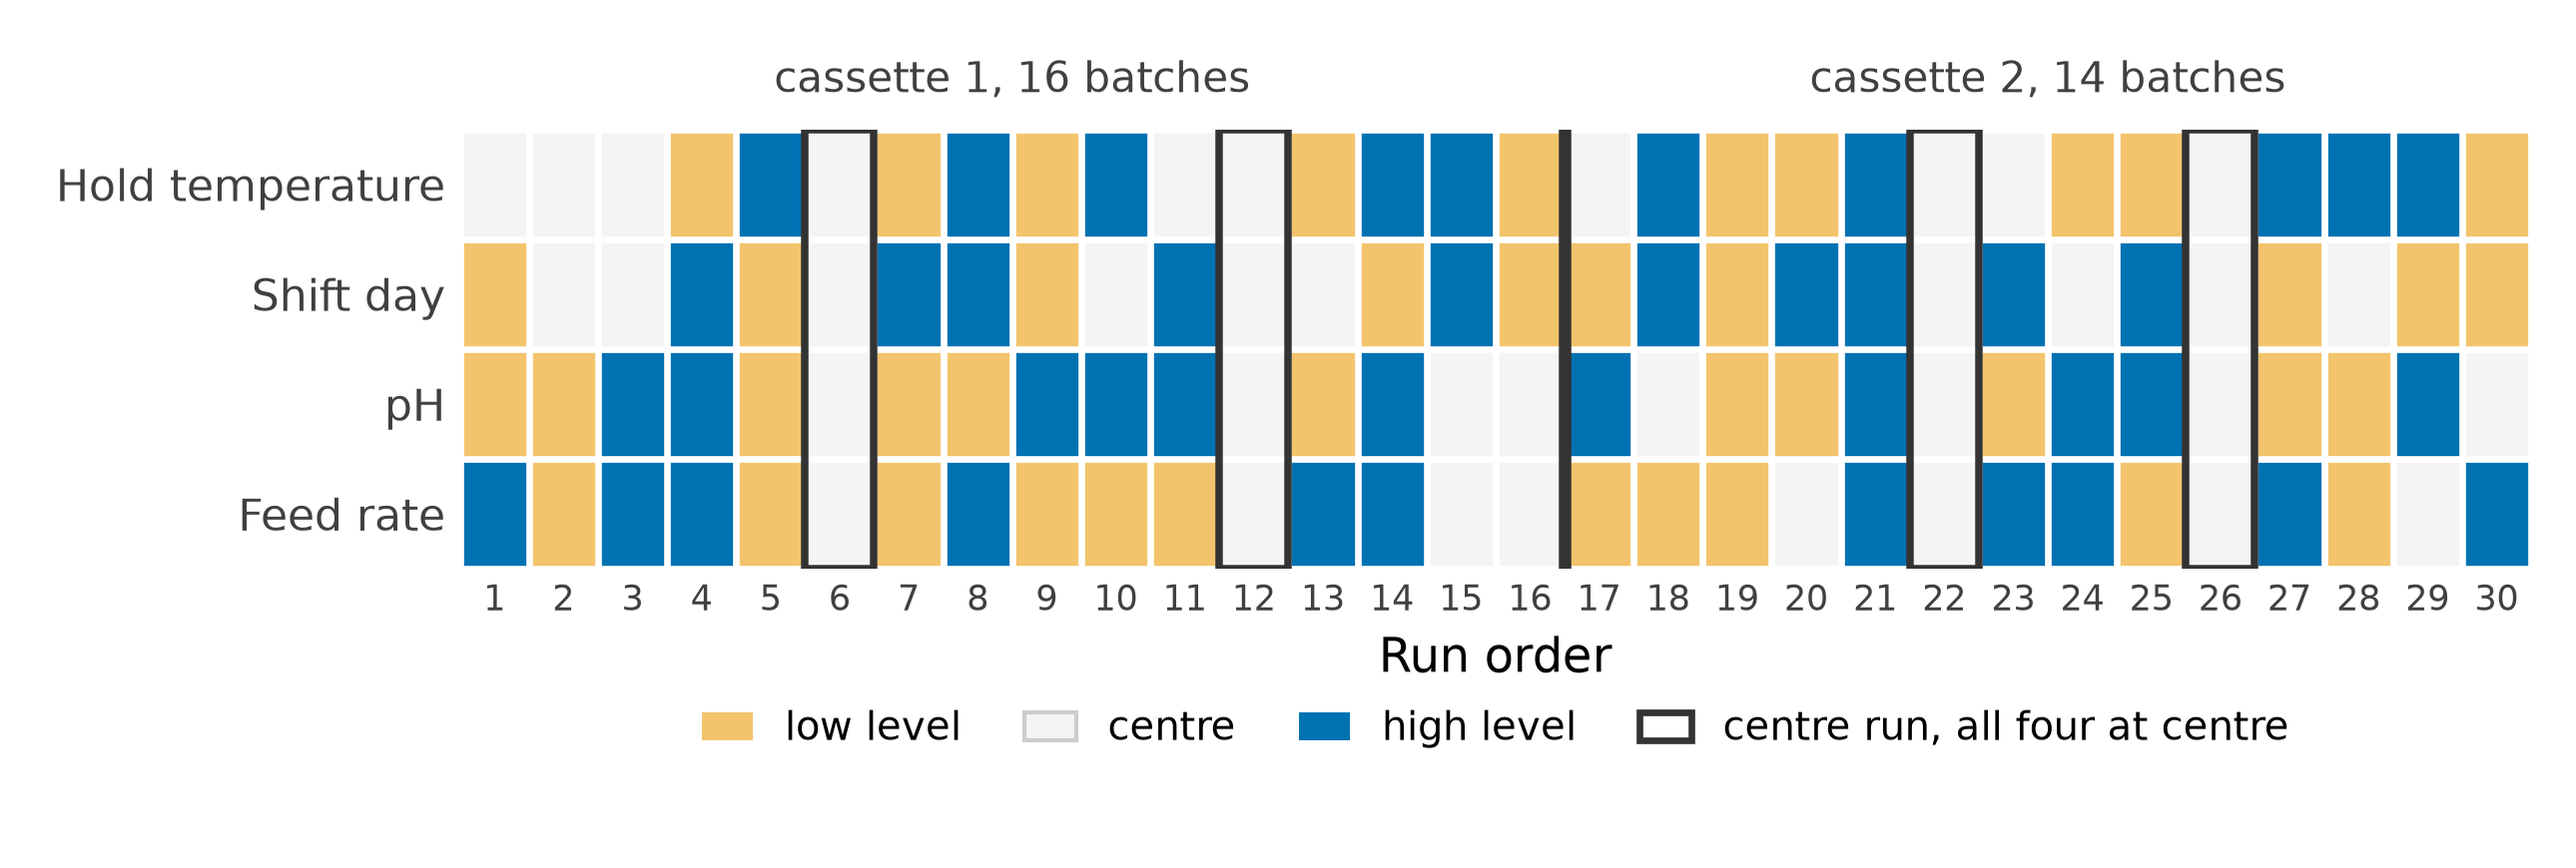
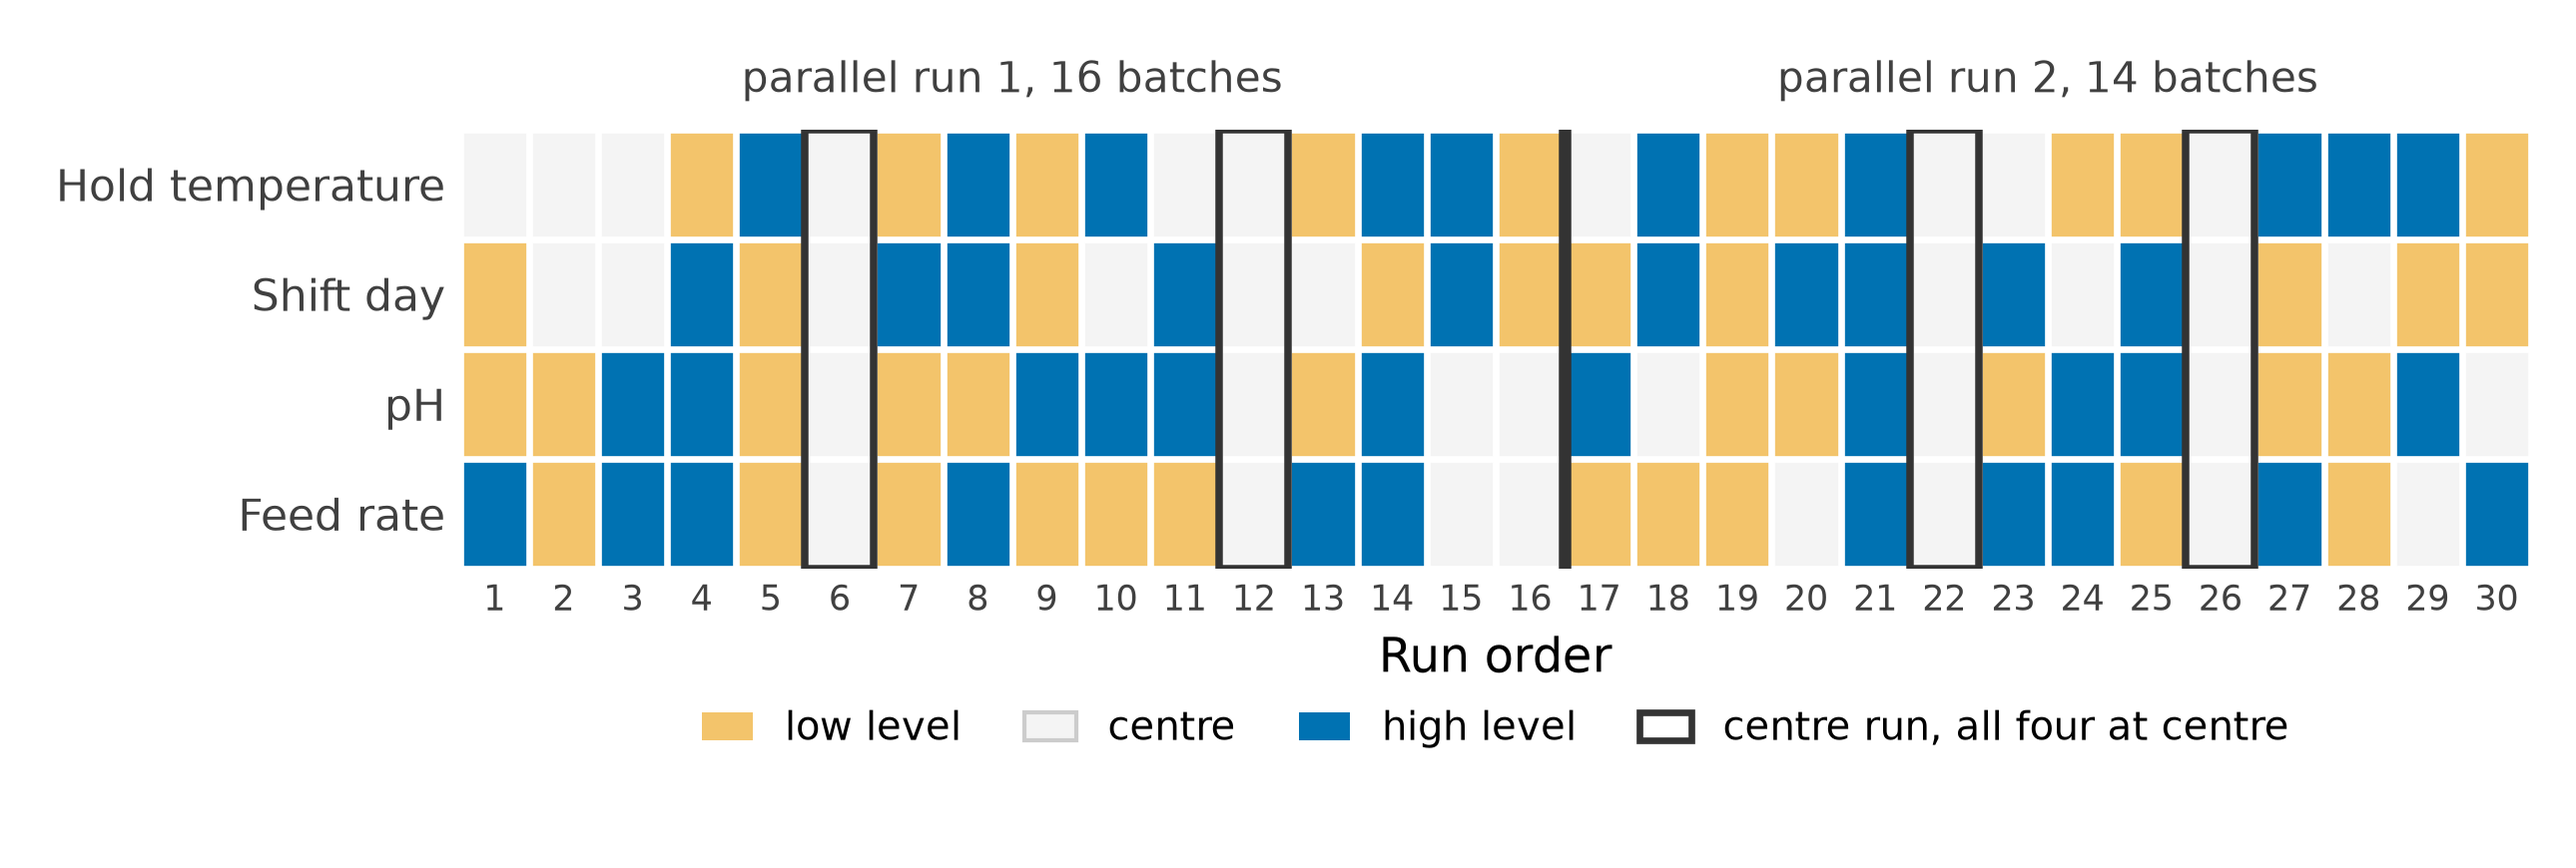
Rename cassette to parallel run in the worked-study figures
Follows the book: one set of batches run together on the Ambr system is
a parallel run, not a cassette. The plan and titer figures label it so,
the shared study module names the column parallel_run and the indicator
second_run, and the recipe figure's legend reads "low and high hold and
shift day" to match its caption.

Claude-Session: https://claude.ai/code/session_01W1daHPaXLs7PPRsq8CmMMm

Changed region(s): [[0.6822, 0.0621, 0.8992, 0.1241], [0.2791, 0.0621, 0.4961, 0.1241]]

diff --git a/doe/omars_worked_study_common.py b/doe/omars_worked_study_common.py
@@ -139,14 +139,14 @@ def study():
 
     rng = np.random.default_rng(7)
     plan = pd.DataFrame(coded, columns=NAMES)
-    plan["cassette"] = np.where(block > 0, 1, 2)
-    plan.loc[is_centre, "cassette"] = 1
+    plan["parallel_run"] = np.where(block > 0, 1, 2)
+    plan.loc[is_centre, "parallel_run"] = 1
     extra = pd.DataFrame(np.zeros((3, 4)), columns=NAMES)
-    extra["cassette"] = [1, 2, 2]
+    extra["parallel_run"] = [1, 2, 2]
     plan = pd.concat([plan, extra], ignore_index=True)
     order = []
     for c in (1, 2):
-        idx = plan.index[plan["cassette"] == c].to_numpy()
+        idx = plan.index[plan["parallel_run"] == c].to_numpy()
         centres = idx[np.all(plan.loc[idx, NAMES] == 0, axis=1)]
         seq = list(rng.permutation(idx[~np.isin(idx, centres)]))
         for k, cpt in enumerate(centres):
@@ -159,16 +159,16 @@ def study():
 
     lot = {1: CONFIG, 2: dataclasses.replace(CONFIG, feed_substrate=0.88 * CONFIG.feed_substrate)}
     seeds = np.random.default_rng(2026).integers(1 << 30, size=len(plan))
-    plan["titer"] = [run_batch(lot[int(r.cassette)], r.hold_temp, r.shift_day, r.pH, r.feed_rate, int(s))
+    plan["titer"] = [run_batch(lot[int(r.parallel_run)], r.hold_temp, r.shift_day, r.pH, r.feed_rate, int(s))
                      for r, s in zip(plan.itertuples(), seeds)]
     plan["log_titer"] = np.log(plan["titer"])
     is_cp = np.all(np.isclose(plan[NAMES], list(CURRENT.values())), axis=1)
 
     C = np.column_stack([(plan[n] - f.low) / (f.high - f.low) * 2 - 1 for n, f in zip(NAMES, FACTORS)])
-    cassette = np.where(plan["cassette"] == 2, 1.0, 0.0)
-    X = np.column_stack([np.ones(len(plan)), cassette, C])
+    second_run = np.where(plan["parallel_run"] == 2, 1.0, 0.0)
+    X = np.column_stack([np.ones(len(plan)), second_run, C])
     b = np.linalg.lstsq(X, plan["log_titer"], rcond=None)[0]
-    plan["log_titer_adj"] = plan["log_titer"] - b[1] * cassette
+    plan["log_titer_adj"] = plan["log_titer"] - b[1] * second_run
 
     result = analyze_omars(plan[NAMES], plan["log_titer_adj"],
                            quadratic_heredity="none", interaction_heredity="none")
@@ -197,7 +197,7 @@ def study():
     _check("replicate mean", reps.mean(), 7.477)
     _check("titer min", plan["titer"].min(), 4.018)
     _check("titer max", plan["titer"].max(), 8.882)
-    _check("cassette effect", b[1], -0.1557)
+    _check("parallel-run effect", b[1], -0.1557)
     _check("recommended hold", decode(x_rec)["hold_temp"], 30.44)
     _check("current titer", truth(np.zeros(4)), 7.436)
     _check("recommended titer", truth(x_rec), 8.303)
@@ -207,7 +207,7 @@ def study():
     assert result.active_quadratics == ["hold_temp^2"]
     assert result.active_interactions == ["hold_temp:shift_day", "hold_temp:pH", "hold_temp:feed_rate"]
 
-    return {"reps": reps, "plan": plan, "is_cp": is_cp, "C": C, "cassette": cassette, "b": b,
+    return {"reps": reps, "plan": plan, "is_cp": is_cp, "C": C, "second_run": second_run, "b": b,
             "result": result, "terms": terms, "bs": bs, "x_rec": x_rec, "best": best,
             "pairs": pairs, "coded": coded}
 

diff --git a/doe/omars-worked-study-plan.py b/doe/omars-worked-study-plan.py
@@ -1,10 +1,10 @@
 """The thirty-batch campaign plan of the worked OMARS study, in run order.
 
 One column per batch, one row per factor, each cell the level the factor is set to. The
-divider is the change of cassette, and with it the change of feed-medium lot. The outlined
-columns are the centre runs, two in each cassette and spread through its order rather than
-run together. Mirror pairs stay in the same cassette, which is what keeps the main effects
-orthogonal to the cassette; it is not visible in this view, and the chapter's code confirms it.
+divider is the change of parallel run, and with it the change of feed-medium lot. The outlined
+columns are the centre runs, two in each parallel run and spread through its order rather than
+run together. Mirror pairs stay in the same parallel run, which is what keeps the main effects
+orthogonal to the parallel run; it is not visible in this view, and the chapter's code confirms it.
 
 Every number comes from omars_worked_study_common.py, which reproduces the chapter's study and
 checks it against the values the chapter prints.
@@ -21,7 +21,7 @@ from omars_worked_study_common import BLUE, LABELS, NAMES, SPINE, study
 S = study()
 plan, C, is_cp = S["plan"], S["C"], S["is_cp"]
 runs = plan.index.to_numpy()
-n_first = int((plan["cassette"] == 1).sum())
+n_first = int((plan["parallel_run"] == 1).sum())
 
 LOW, MID, HIGH = "#F3C46B", "#F4F4F4", BLUE
 cmap = ListedColormap([LOW, MID, HIGH])
@@ -31,7 +31,7 @@ fig, ax = plt.subplots(figsize=(8.6, 2.9))
 ax.imshow(np.rint(C).T, cmap=cmap, vmin=-1, vmax=1, aspect="auto",
           extent=(0.5, len(runs) + 0.5, len(NAMES) - 0.5, -0.5), interpolation="nearest")
 
-# White grid between cells, then the centre runs outlined and the cassette divider.
+# White grid between cells, then the centre runs outlined and the parallel run divider.
 for x in np.arange(0.5, len(runs) + 1, 1):
     ax.axvline(x, color="white", lw=1.6)
 for y in np.arange(-0.5, len(NAMES), 1):
@@ -39,9 +39,9 @@ for y in np.arange(-0.5, len(NAMES), 1):
 for r in runs[is_cp]:
     ax.add_patch(Rectangle((r - 0.5, -0.5), 1, len(NAMES), fill=False, edgecolor="0.2", lw=1.8, zorder=4))
 ax.axvline(n_first + 0.5, color="0.2", lw=3.0, zorder=5)
-ax.text(n_first / 2 + 0.5, -0.75, f"cassette 1, {n_first} batches", ha="center", va="bottom",
+ax.text(n_first / 2 + 0.5, -0.75, f"parallel run 1, {n_first} batches", ha="center", va="bottom",
         fontsize=10, color="0.25")
-ax.text(n_first + (len(runs) - n_first) / 2 + 0.5, -0.75, f"cassette 2, {len(runs) - n_first} batches",
+ax.text(n_first + (len(runs) - n_first) / 2 + 0.5, -0.75, f"parallel run 2, {len(runs) - n_first} batches",
         ha="center", va="bottom", fontsize=10, color="0.25")
 
 ax.set_xticks(runs)

diff --git a/doe/omars-worked-study-titer.py b/doe/omars-worked-study-titer.py
@@ -1,9 +1,9 @@
-"""Titer of the thirty batches against the feed rate, by cassette, for the worked OMARS study.
+"""Titer of the thirty batches against the feed rate, by parallel run, for the worked OMARS study.
 
 The feed rate is the largest effect the study finds, so it is the axis the harvest titers are
-read against, one panel per cassette. The short bars are the mean titer of the design runs at
+read against, one panel per parallel run. The short bars are the mean titer of the design runs at
 each feed level; the stars are the centre runs, the only batches at identical settings in both
-cassettes. The second cassette drew on a new lot of feed medium, and the whole pattern sits
+parallel runs. The second parallel run drew on a new lot of feed medium, and the whole pattern sits
 lower there. The chapter estimates that shift from all thirty batches.
 
 Every number comes from omars_worked_study_common.py, which reproduces the chapter's study and
@@ -21,14 +21,14 @@ plan, is_cp, reps = S["plan"], S["is_cp"], S["reps"]
 feed = FACTORS[3]
 levels = [feed.low, (feed.low + feed.high) / 2, feed.high]
 colour = {1: BLUE, 2: ORANGE}
-titles = {1: "Cassette 1", 2: "Cassette 2, new feed-medium lot"}
+titles = {1: "Parallel run 1", 2: "Parallel run 2, new feed-medium lot"}
 JITTER = 0.0022          # spreads runs at the same level sideways so none hides another
 rng = np.random.default_rng(3)
 
 fig, axes = plt.subplots(1, 2, figsize=(8.6, 3.8), sharey=True)
 for ax, c in zip(axes, (1, 2)):
     ax.axhline(reps.mean(), color="0.82", lw=1.2, zorder=1)
-    here = plan["cassette"] == c
+    here = plan["parallel_run"] == c
     design, centre = here & ~is_cp, here & is_cp
     x = plan.loc[design, "feed_rate"] + rng.uniform(-JITTER, JITTER, design.sum())
     ax.plot(x, plan.loc[design, "titer"], "o", color=colour[c], ms=6.5, zorder=3, alpha=0.9,

diff --git a/doe/omars-worked-study-recipe.py b/doe/omars-worked-study-recipe.py
@@ -1,8 +1,8 @@
 """The current recipe and its replicate batches, for the worked OMARS study.
 
 Left: the temperature schedule of one batch, warm growth at 36.8 degC, a 1.5-day ramp starting on
-the shift day, then the production hold. The current recipe is drawn in full; the four corners
-of the hold-temperature by shift-day range are drawn lightly, to show the region the study
+the shift day, then the production hold. The current recipe is drawn in full; all four combinations
+of the low and high hold temperature and shift day are drawn lightly, to show the region the study
 covers. Right: titer against day for twenty replicate batches at the current recipe, each with
 its own disturbance draw, over the noise-free curve.
 
@@ -33,7 +33,7 @@ for hold, shift in ((28.5, 2.0), (28.5, 3.5), (31.5, 2.0), (31.5, 3.5)):
     ax_t.plot(days, schedule(hold, shift), color="0.78", lw=1.2, zorder=2)
 ax_t.plot(days, schedule(CURRENT["hold_temp"], CURRENT["shift_day"]), color=BLUE, lw=2.4, zorder=3,
           label="current recipe")
-ax_t.plot([], [], color="0.78", lw=1.2, label="corners of the\nstudy region")
+ax_t.plot([], [], color="0.78", lw=1.2, label="low and high hold\nand shift day")
 ax_t.text(0.15, GROWTH_TEMP - 0.35, "growth,\n36.8 °C", fontsize=9.5, color=GREY, ha="left", va="top")
 ax_t.text(7.0, CURRENT["hold_temp"] + 0.3, "hold, 30.0 °C", fontsize=9.5, color=GREY, ha="left", va="bottom")
 ax_t.annotate("shift starts on day 2.75,\nramp of 1.5 days", xy=(3.55, 33.4), xytext=(5.6, 33.4),

diff --git a/doe/omars-worked-study-effects.py b/doe/omars-worked-study-effects.py
@@ -1,7 +1,7 @@
 """The full second-order model fitted in one step, for the worked OMARS study.
 
 At thirty runs the fifteen-term model can be fitted directly: an intercept, four main effects,
-four quadratics and six two-factor interactions, on log titer with the cassette shift removed.
+four quadratics and six two-factor interactions, on log titer with the parallel run shift removed.
 Each coefficient is drawn with its 95% confidence interval on the fifteen residual degrees of
 freedom. The terms the staged analysis selects are filled; the rest are hollow. The script
 checks that the selected terms are the ones whose intervals exclude zero plus the
